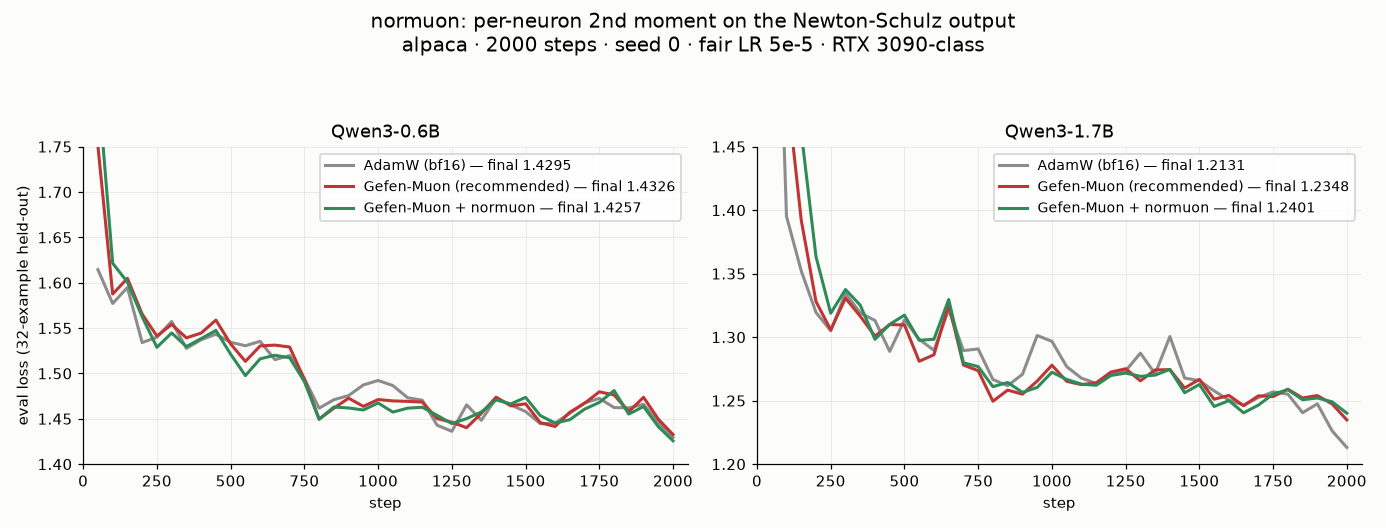
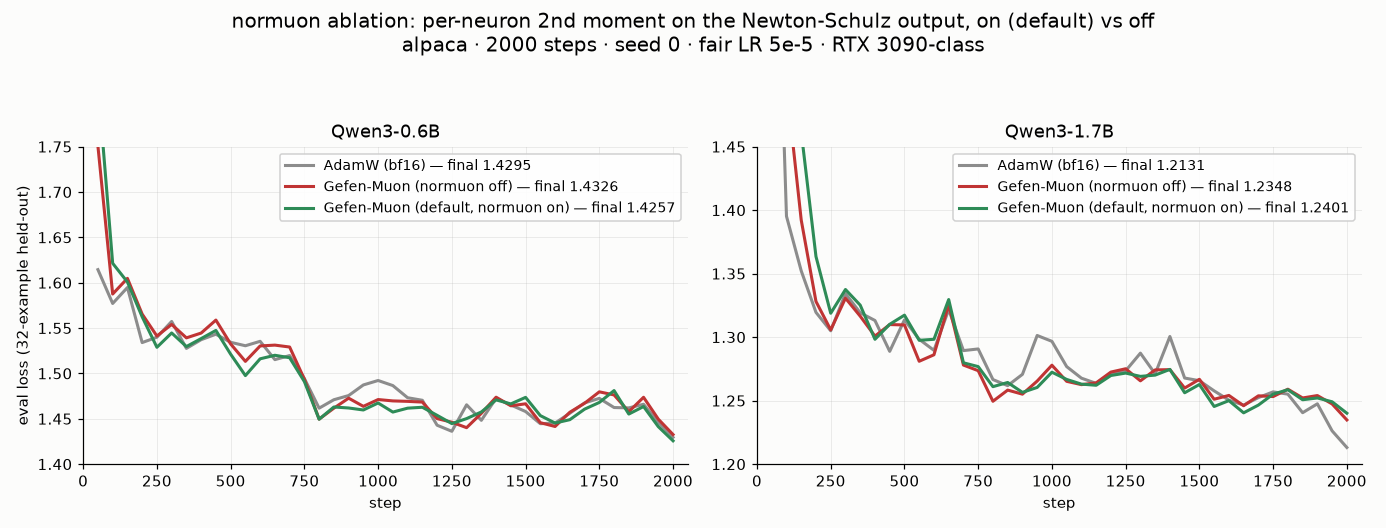
docs(muon): describe normuon as plain default behavior, not a before/after event
Drop the historical 'pre-normuon config/trajectory' framing everywhere --
normuon is just a hybrid default you can disable with normuon=False /
--no-muon-normuon, described exactly like ns_schedule. The lever section and
its plot are relabeled as an on-vs-off ablation ('Gefen-Muon (default,
normuon on)' vs '(normuon off)') instead of 'recommended vs rec+normuon'.

Changed region(s): [[0.6825, 0.2727, 0.9928, 0.4242], [0.1861, 0.303, 0.4964, 0.4242], [0.1551, 0.0303, 0.8377, 0.0606]]

diff --git a/hybrid.py b/hybrid.py
@@ -39,11 +39,11 @@ normalization of the Newton-Schulz output, Frobenius-norm-preserving so the
 match_rms_adamw calibration is untouched) is ON BY DEFAULT in this hybrid (the
 raw ``GefenMuon`` keeps it off, mirroring the tuned3-vs-standard split): it is
 throughput-free and ~free on memory (one fp32 scalar per output neuron,
-~+0.002 B/param); in the fair-LR sweep it beat plain recommended at 0.6B on both
-seeds (-0.007/-0.010 final eval, beating AdamW outright) and cut the residual
-1.7B gap to AdamW by ~1/3 (tail-mean of the last 10 evals). The published
-benchmark table is measured with it; set ``normuon=False`` for the pre-normuon
-trajectory. Resuming a pre-normuon checkpoint with it on is safe:
+~+0.002 B/param); in the fair-LR ablation (same config, normuon on vs off) it
+was worth -0.007/-0.010 final eval at 0.6B on both seeds (beating AdamW
+outright) and cut the residual
+1.7B gap to AdamW by ~1/3 (tail-mean of the last 10 evals). Disable with
+``normuon=False``. Resuming a checkpoint saved without normuon state is safe:
 the per-row state initializes lazily with bias correction, so the first steps
 just apply a near-uniform normalization while the EMA warms up. To CLOSE the
 residual 1.7B gap to AdamW, add

diff --git a/benchmarks/optimizer-sweep/sweep_cell.py b/benchmarks/optimizer-sweep/sweep_cell.py
@@ -92,8 +92,7 @@ ap.add_argument("--muon-normuon", dest="muon_normuon", action="store_true",
                      "(Muon half only). Omit both flags to follow the shipped "
                      "GefenMuonHybrid default (currently ON).")
 ap.add_argument("--no-muon-normuon", dest="muon_normuon", action="store_false",
-                help="GefenMuonHybrid: force OFF normuon (the pre-normuon "
-                     "config; the published table uses the default, on)")
+                help="GefenMuonHybrid: force OFF normuon")
 ap.add_argument("--muon-cautious", action="store_true",
                 help="GefenMuonHybrid: cautious masking of the Muon update "
                      "(zero coords whose sign disagrees with the gradient)")

diff --git a/README.md b/README.md
@@ -153,7 +153,7 @@ You can run these yourself — see [`benchmarks/`](benchmarks/README.md) for wha
 | Qwen3-1.7B | **gefen_fused** | 2e-5 | 1.281 | 2917 | 9.21 | 1.01 |
 | Qwen3-1.7B | **gefen_muon** | 5e-5 | 1.239 | 1293 | **9.20** | **1.01** |
 
-> Single-session sweep on RTX 3090 Ti (0.6B) / RTX 3090 (1.7B). `gefen_muon` uses the shipped `GefenMuonHybrid` defaults: `ns_schedule="tuned3"` (~1.4× the classic quintic, loss-neutral — see [the faster-NS lever](#experimental-lever-faster-newton-schulz-ns_schedule-fp8_ns); `ns_schedule="standard"` is the bit-identical quintic at ~0.7× this throughput) and `normuon=True` (throughput-free — see [the normuon lever](#quality-lever-per-neuron-2nd-moment-on-the-newton-schulz-output-normuon); `normuon=False` / harness `--no-muon-normuon` gives the pre-normuon config).
+> Single-session sweep on RTX 3090 Ti (0.6B) / RTX 3090 (1.7B). `gefen_muon` uses the shipped `GefenMuonHybrid` defaults: `ns_schedule="tuned3"` (~1.4× the classic quintic, loss-neutral — see [the faster-NS lever](#experimental-lever-faster-newton-schulz-ns_schedule-fp8_ns); `ns_schedule="standard"` is the bit-identical quintic at ~0.7× this throughput) and `normuon=True` (throughput-free per-neuron 2nd moment — see [the normuon lever](#quality-lever-per-neuron-2nd-moment-on-the-newton-schulz-output-normuon); disable with `normuon=False` / harness `--no-muon-normuon`).
 
 ![Qwen3-1.7B optimizer comparison](docs/benchmarks/quad_qwen1p7b.png)
 ![Qwen3-0.6B optimizer comparison](docs/benchmarks/quad_qwen0p6b.png)
@@ -265,7 +265,7 @@ optimizer = GefenMuonHybrid(
  - **`adjust_lr_fn="match_rms_adamw"`** (recommended, and the **`GefenMuonHybrid` default**) rescales the Muon update to AdamW-equivalent RMS (`0.2·√max(rows, cols)`). Then **one AdamW-scale `lr` is correct for both halves**, and the [Learning rate](#learning-rate-when-porting-an-adamw-config) guidance above (Gefen wants ~0.6× AdamW's on Qwen3) applies to the whole model.
  - **`adjust_lr_fn=None`** (= "original" Muon scaling `√max(1, rows/cols)`; this is the bare `GefenMuon` default, **not** the Hybrid's) leaves the Muon half on its native scale. Passing an AdamW-sized `lr` here **under-trains the 2D Muon matrices** — and because both halves share one `lr`, there's no single value that suits Muon-native *and* the Gefen backup. **Don't pair `None` with an AdamW-scale `lr`.**
 
-**Optional knobs.** `GefenMuonHybrid` defaults to the `tuned3` Newton-Schulz schedule (~1.4× step throughput, loss-neutral; pass `ns_schedule="standard"` for the classic quintic) and to `normuon=True` — a throughput-free per-neuron 2nd moment on the Newton-Schulz output that consistently nudges eval loss toward (or past) AdamW (see [the normuon lever](#quality-lever-per-neuron-2nd-moment-on-the-newton-schulz-output-normuon); `normuon=False` restores the pre-normuon trajectory). Two opt-in quality levers are off by default: `backup_2d_period_one=True` gives the embedding / LM head per-element 2nd moment to **match AdamW's loss at lower memory** (see [the experimental section](#experimental-lever-match-adamw-2nd-moment-on-embed--lm-head-backup_2d_period_one)), and `stochastic_round=True` switches the 8-bit momentum to unbiased stochastic rounding (free, loss-neutral).
+**Optional knobs.** `GefenMuonHybrid` defaults to the `tuned3` Newton-Schulz schedule (~1.4× step throughput, loss-neutral; pass `ns_schedule="standard"` for the classic quintic) and to `normuon=True` — a throughput-free per-neuron 2nd moment on the Newton-Schulz output that consistently nudges eval loss toward (or past) AdamW (see [the normuon lever](#quality-lever-per-neuron-2nd-moment-on-the-newton-schulz-output-normuon); disable with `normuon=False`). Two opt-in quality levers are off by default: `backup_2d_period_one=True` gives the embedding / LM head per-element 2nd moment to **match AdamW's loss at lower memory** (see [the experimental section](#experimental-lever-match-adamw-2nd-moment-on-embed--lm-head-backup_2d_period_one)), and `stochastic_round=True` switches the 8-bit momentum to unbiased stochastic rounding (free, loss-neutral).
 
 It supports `step()`, `zero_grad()`, `state_dict()`/`load_state_dict()`, and LR schedulers (e.g. `torch.optim.lr_scheduler.StepLR(optimizer, ...)`) like any optimizer. Because its constructor takes two parameter lists rather than a single iterable, build it yourself and hand it to the Hugging Face `Trainer` via `optimizers=` (not `optimizer_cls_and_kwargs`):
 
@@ -342,11 +342,11 @@ Below (RTX 5090, Qwen3-0.6B, 400 steps; the chart force-engages `fp8` to isolate
 
 ## Quality Lever: per-neuron 2nd moment on the Newton-Schulz output (`normuon`)
 
-> **On by default in `GefenMuonHybrid`** (the low-level `GefenMuon` primitive keeps `normuon=False`, mirroring the `ns_schedule` split). Throughput-free and ~free on memory; the published table above is measured with it, and `normuon=False` restores the pre-normuon trajectory.
+> **On by default in `GefenMuonHybrid`** (the low-level `GefenMuon` primitive keeps `normuon=False`, mirroring the `ns_schedule` split). Throughput-free and ~free on memory; disable with `normuon=False`.
 
 Truncated Newton-Schulz leaves the row norms of the "orthogonalized" update visibly non-uniform, so different output neurons get different effective step sizes. `normuon` (after [NorMuon](https://arxiv.org/abs/[phone redacted])) tracks an EMA of each output row's mean-square on the NS output, divides each row by its bias-corrected EMA-RMS, then rescales the matrix back to its pre-normalization Frobenius norm — so the overall update scale, and therefore the `match_rms_adamw` LR calibration, is untouched. State is one fp32 scalar per output neuron (~+0.002 B/param); compute is one row-norm reduction plus one in-place scale (~4% of one `tuned3` NS call, invisible end-to-end: 3524 vs 3506 tok/s at 0.6B).
 
-Measured on the recommended config (fair-LR regime above, seed 0 + a seed-1 replication): at **0.6B** it beats plain recommended by **−0.007/−0.010** final eval on the two seeds — moving `GefenMuonHybrid` past the best AdamW — and at **1.7B** it trims the residual gap to AdamW by ~⅓ on the tail-mean of the last 10 evals (single-point finals at 1.7B are within the ±0.005–0.007 eval noise; the seed replication at 0.6B is the robust signal). A sign-agreement "cautious" mask over the NS output was benchmarked in the same sweep and clearly **lost** (+0.06 eval at 0.6B, −5% tok/s); it remains available as `cautious=True` for experimentation only.
+Ablation (the recommended config with normuon on vs off; fair-LR regime above, seed 0 + a seed-1 replication): at **0.6B** normuon is worth **−0.007/−0.010** final eval on the two seeds — moving `GefenMuonHybrid` past the best AdamW — and at **1.7B** it trims the residual gap to AdamW by ~⅓ on the tail-mean of the last 10 evals (single-point finals at 1.7B are within the ±0.005–0.007 eval noise; the seed replication at 0.6B is the robust signal). A sign-agreement "cautious" mask over the NS output was benchmarked in the same sweep and clearly **lost** (+0.06 eval at 0.6B, −5% tok/s); it remains available as `cautious=True` for experimentation only.
 
 ![Gefen-Muon normuon — eval loss vs AdamW and recommended](docs/benchmarks/muon_normuon_loss.png)
 

diff --git a/benchmarks/optimizer-sweep/README.md b/benchmarks/optimizer-sweep/README.md
@@ -150,9 +150,9 @@ Written to `--out`:
   scale; with the original Muon scaling its LR is on a different footing.
 - **`gefen_muon` follows the shipped `GefenMuonHybrid` defaults** unless
   overridden — including `normuon` (per-neuron 2nd moment on the Newton-Schulz
-  output, on by default; the published table is measured with it). Pass
-  `--no-muon-normuon` for the pre-normuon config; the effective value is
-  recorded in each result line (`muon_flags.normuon` / `normuon_explicit`).
+  output, on by default). Pass `--no-muon-normuon` to disable it; the effective
+  value is recorded in each result line (`muon_flags.normuon` /
+  `normuon_explicit`).
 - **Muon is slower per step** — the Newton-Schulz orthogonalization adds work,
   so `gefen_muon` trades throughput for its update geometry.
 - **Throughput is per-GPU.** Compare optimizers *within* a model (same GPU

diff --git a/benchmarks/README.md b/benchmarks/README.md
@@ -19,9 +19,9 @@ Outputs land in the configured out-dir: per-cell logs, `results.jsonl`, `compari
 
 ## Reproducing the published Gefen-Muon numbers
 
-`run.sh` applies the **recommended Gefen-Muon config by default** — `adjust_lr_fn=match_rms_adamw`, `backup_lr = 0.5 × the cell LR`, `backup_1d_period_one`, and (via the `GefenMuonHybrid` default) `normuon`, the throughput-free per-neuron 2nd moment on the Newton-Schulz output (beats plain recommended at 0.6B and trims the 1.7B gap — see the `GefenMuonHybrid` docstring). Override via config keys (`muon_adjust`, `muon_backup_lr_fraction`, `muon_backup_1d`, `muon_normuon`) or flags (`--muon-adjust`, `--muon-backup-lr-frac`, `--no-muon-backup-1d`, `--no-muon-normuon`). See [the optimizer-sweep README](optimizer-sweep/README.md) for the full flag list.
+`run.sh` applies the **recommended Gefen-Muon config by default** — `adjust_lr_fn=match_rms_adamw`, `backup_lr = 0.5 × the cell LR`, `backup_1d_period_one`, and (via the `GefenMuonHybrid` default) `normuon`, the throughput-free per-neuron 2nd moment on the Newton-Schulz output (see the `GefenMuonHybrid` docstring). Override via config keys (`muon_adjust`, `muon_backup_lr_fraction`, `muon_backup_1d`, `muon_normuon`) or flags (`--muon-adjust`, `--muon-backup-lr-frac`, `--no-muon-backup-1d`, `--no-muon-normuon`). See [the optimizer-sweep README](optimizer-sweep/README.md) for the full flag list.
 
-> **Note on the published `gefen_muon` numbers:** they are measured with the shipped defaults, including `normuon`. Pass `--no-muon-normuon` for the pre-normuon config (results are then labeled `recommended-no-normuon`); the isolated lever A/B (0.6B: −0.007/−0.010 final eval over two seeds; 1.7B: ~⅓ of the residual gap to AdamW on the tail-mean of the last 10 evals) is documented in the main README's normuon section.
+> The published `gefen_muon` numbers use the shipped defaults, including `normuon`. Pass `--no-muon-normuon` to disable it (results are then labeled `recommended-no-normuon`); the isolated normuon ablation (0.6B: −0.007/−0.010 final eval over two seeds; 1.7B: ~⅓ of the residual gap to AdamW on the tail-mean of the last 10 evals) is documented in the main README's normuon section.
 
 > **Note on the published `gefen_muon` throughput:** it reflects the current `GefenMuonHybrid` default `ns_schedule="tuned3"` (loss-neutral, ~1.4× the classic quintic — measured +38%/+39% on the 3090-class GPUs used). `run.sh` reproduces it (tuned3 is the default); pass `--ns-schedule standard` to `sweep_cell` for the bit-identical classic quintic (~0.7× the throughput, same loss). The other optimizers' rows are schedule-independent.
 